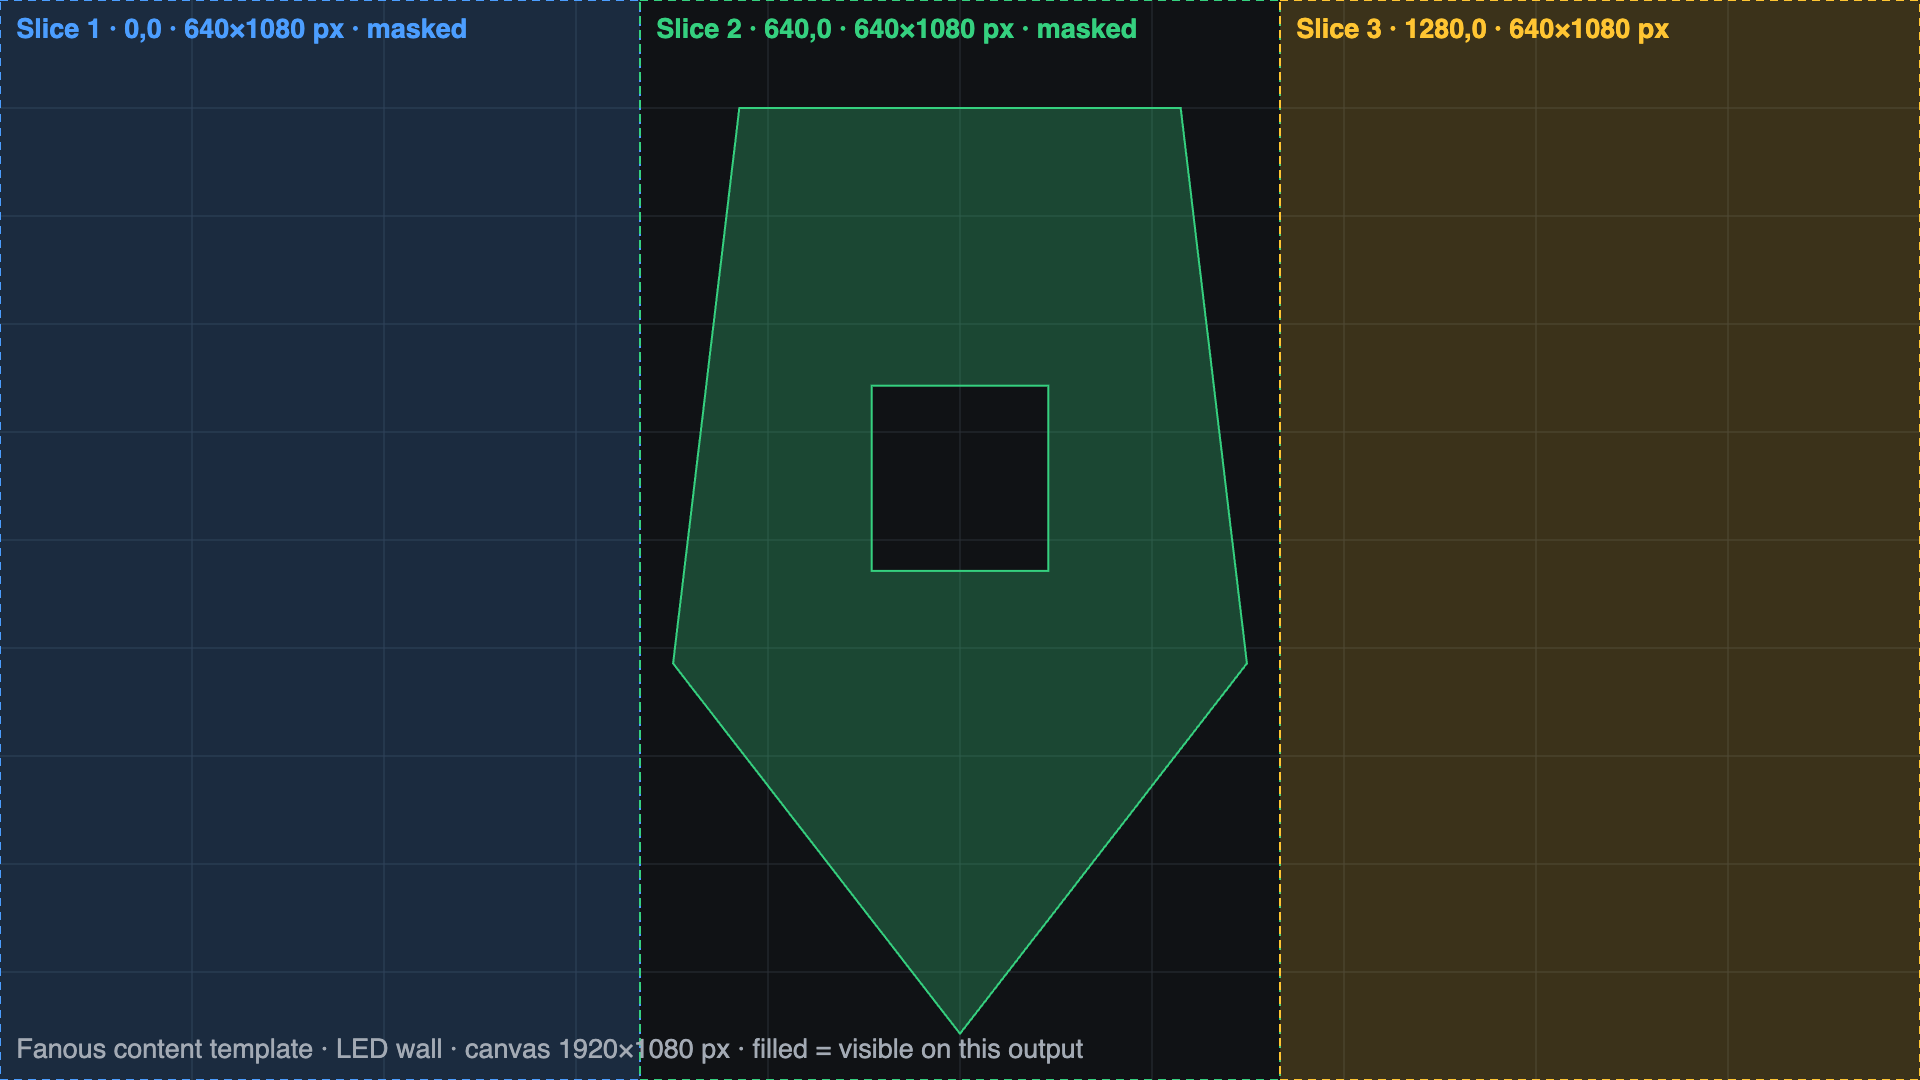
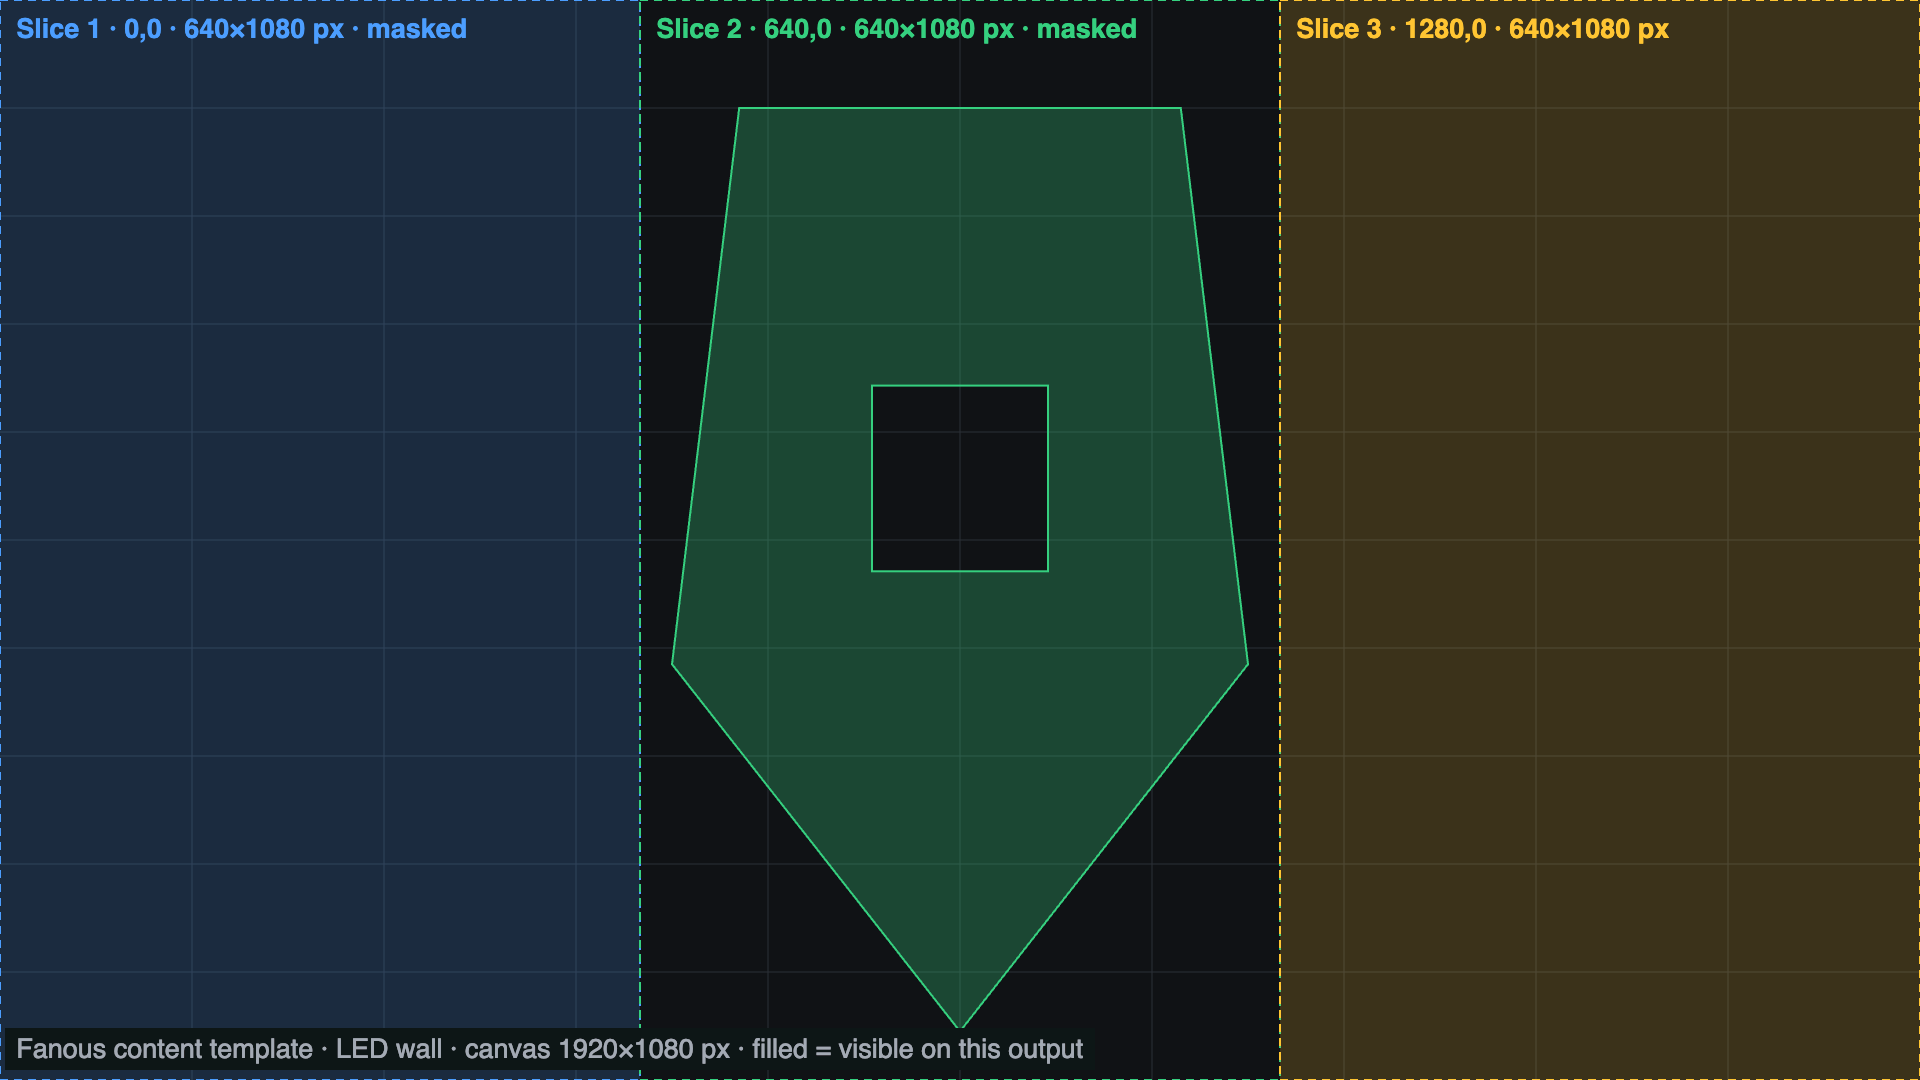
Docs: retake five guide screenshots that show the old UI
The show mode popover (the Spotlight hint lost its Spotlight Privacy
clause and display sleep only warns), the refused-command banner (status
bar, not top bar), the Patch layer group with a collision and with Add
layer blocked (typed universe fields), and the content template (footer
on a band since B174).

Changed region(s): [[0.0, 0.9472, 0.3438, 1.0]]

diff --git a/docs/user/show-day-checklist.md b/docs/user/show-day-checklist.md
@@ -160,7 +160,7 @@ flowchart TD
   fail -- no --> in["Show mode is on"]
 ```
 
-<img src="images/show-mode-popover.png" width="321" alt="The popover Cannot enter show mode listing five items with their fix hints, and the buttons Open System and Close">
+<img src="images/show-mode-popover.png" width="321" alt="The popover Cannot enter show mode listing four items with their fix hints, and the buttons Open System and Close">
 
 ### Show mode
 

diff --git a/CHANGELOG.md b/CHANGELOG.md
@@ -10,6 +10,8 @@ implements is `docs/DESIGN.md`; known limitations are in `docs/BACKLOG.md`.
 
 ## Unreleased
 
+- Docs: screenshots retaken for the show mode popover, the refused-command banner, two Patch screen layer groups and
+  the content template (PR #N).
 - Release: 1.0.0-rc.19 is on GitHub as a pre-release with the signed, notarized dmg, built from main 59c1f2e
   (PR #501).
 
